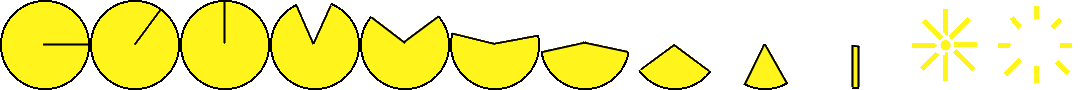
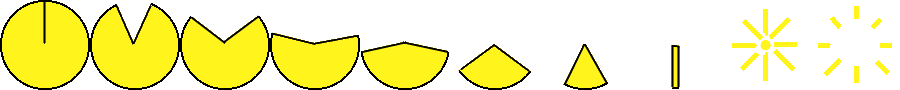
highscores 2/2

Changed region(s): [[0.0, 0.0, 0.9956, 1.0], [0.9644, 0.4667, 0.9956, 0.5333]]

diff --git a/Game.cpp b/Game.cpp
@@ -620,7 +620,24 @@ void Game::PlayerDead()
 		}
 		else
 		{
-			MessageBoxA(0, "YOU SUCK!", 0, 0);
+			HighScore score;
+			std::vector<long double> saved;
+			saved = score.SaveScore(mPlayer.GetPoints());
+
+			std::string temp;
+			temp = std::to_string(saved[0]);
+
+			char str[255];
+			strcpy (str,temp.c_str());
+
+			for(int i= 1;i < score.mMaxScores;i++)
+			{
+				temp =  "\n" + std::to_string(saved[i]);
+				strcat (str,temp.c_str());
+			}
+			puts (str);
+
+			MessageBoxA(0,str,"High Scores", 0);
 			PostQuitMessage(0); // GAME OVER HERE
 		}
 	}

diff --git a/HighScore.h b/HighScore.h
@@ -3,22 +3,19 @@
 
 class HighScore
 {
-	struct Score
-	{
-		int			mScore;
-		std::string mName;
-	};
+
 
 public:
 	HighScore(void);
 	~HighScore(void);
 
-	std::vector<Score> SaveScore(int score,std::string name);
+	std::vector<long double> SaveScore(int score);
+	int							mMaxScores;
 
 private:
 
-	std::vector<Score>	mHighScores;
-	std::fstream		mFileStream;
-	int					mMaxScores;
+	std::vector<long double>	mHighScores;
+	std::fstream				mFileStream;
+	
 };
 

diff --git a/Player.cpp b/Player.cpp
@@ -297,8 +297,8 @@ void Player::Kill()
 	{
 		mHit = true;
 		mFrame = 0;
-		mAnimationSpeed = 0.10f;
-		mMaxFrames = 12;
+		mAnimationSpeed = 0.14f;
+		mMaxFrames = 10;
 		mTexture = mKillTexture;
 	}
 }

diff --git a/Game.h b/Game.h
@@ -12,6 +12,7 @@
 #include "AudioEngine.h"
 #include "LightManager.h"
 #include "GUIManager.h"
+#include "HighScore.h"
 
 class Game : public d3dApp
 {
